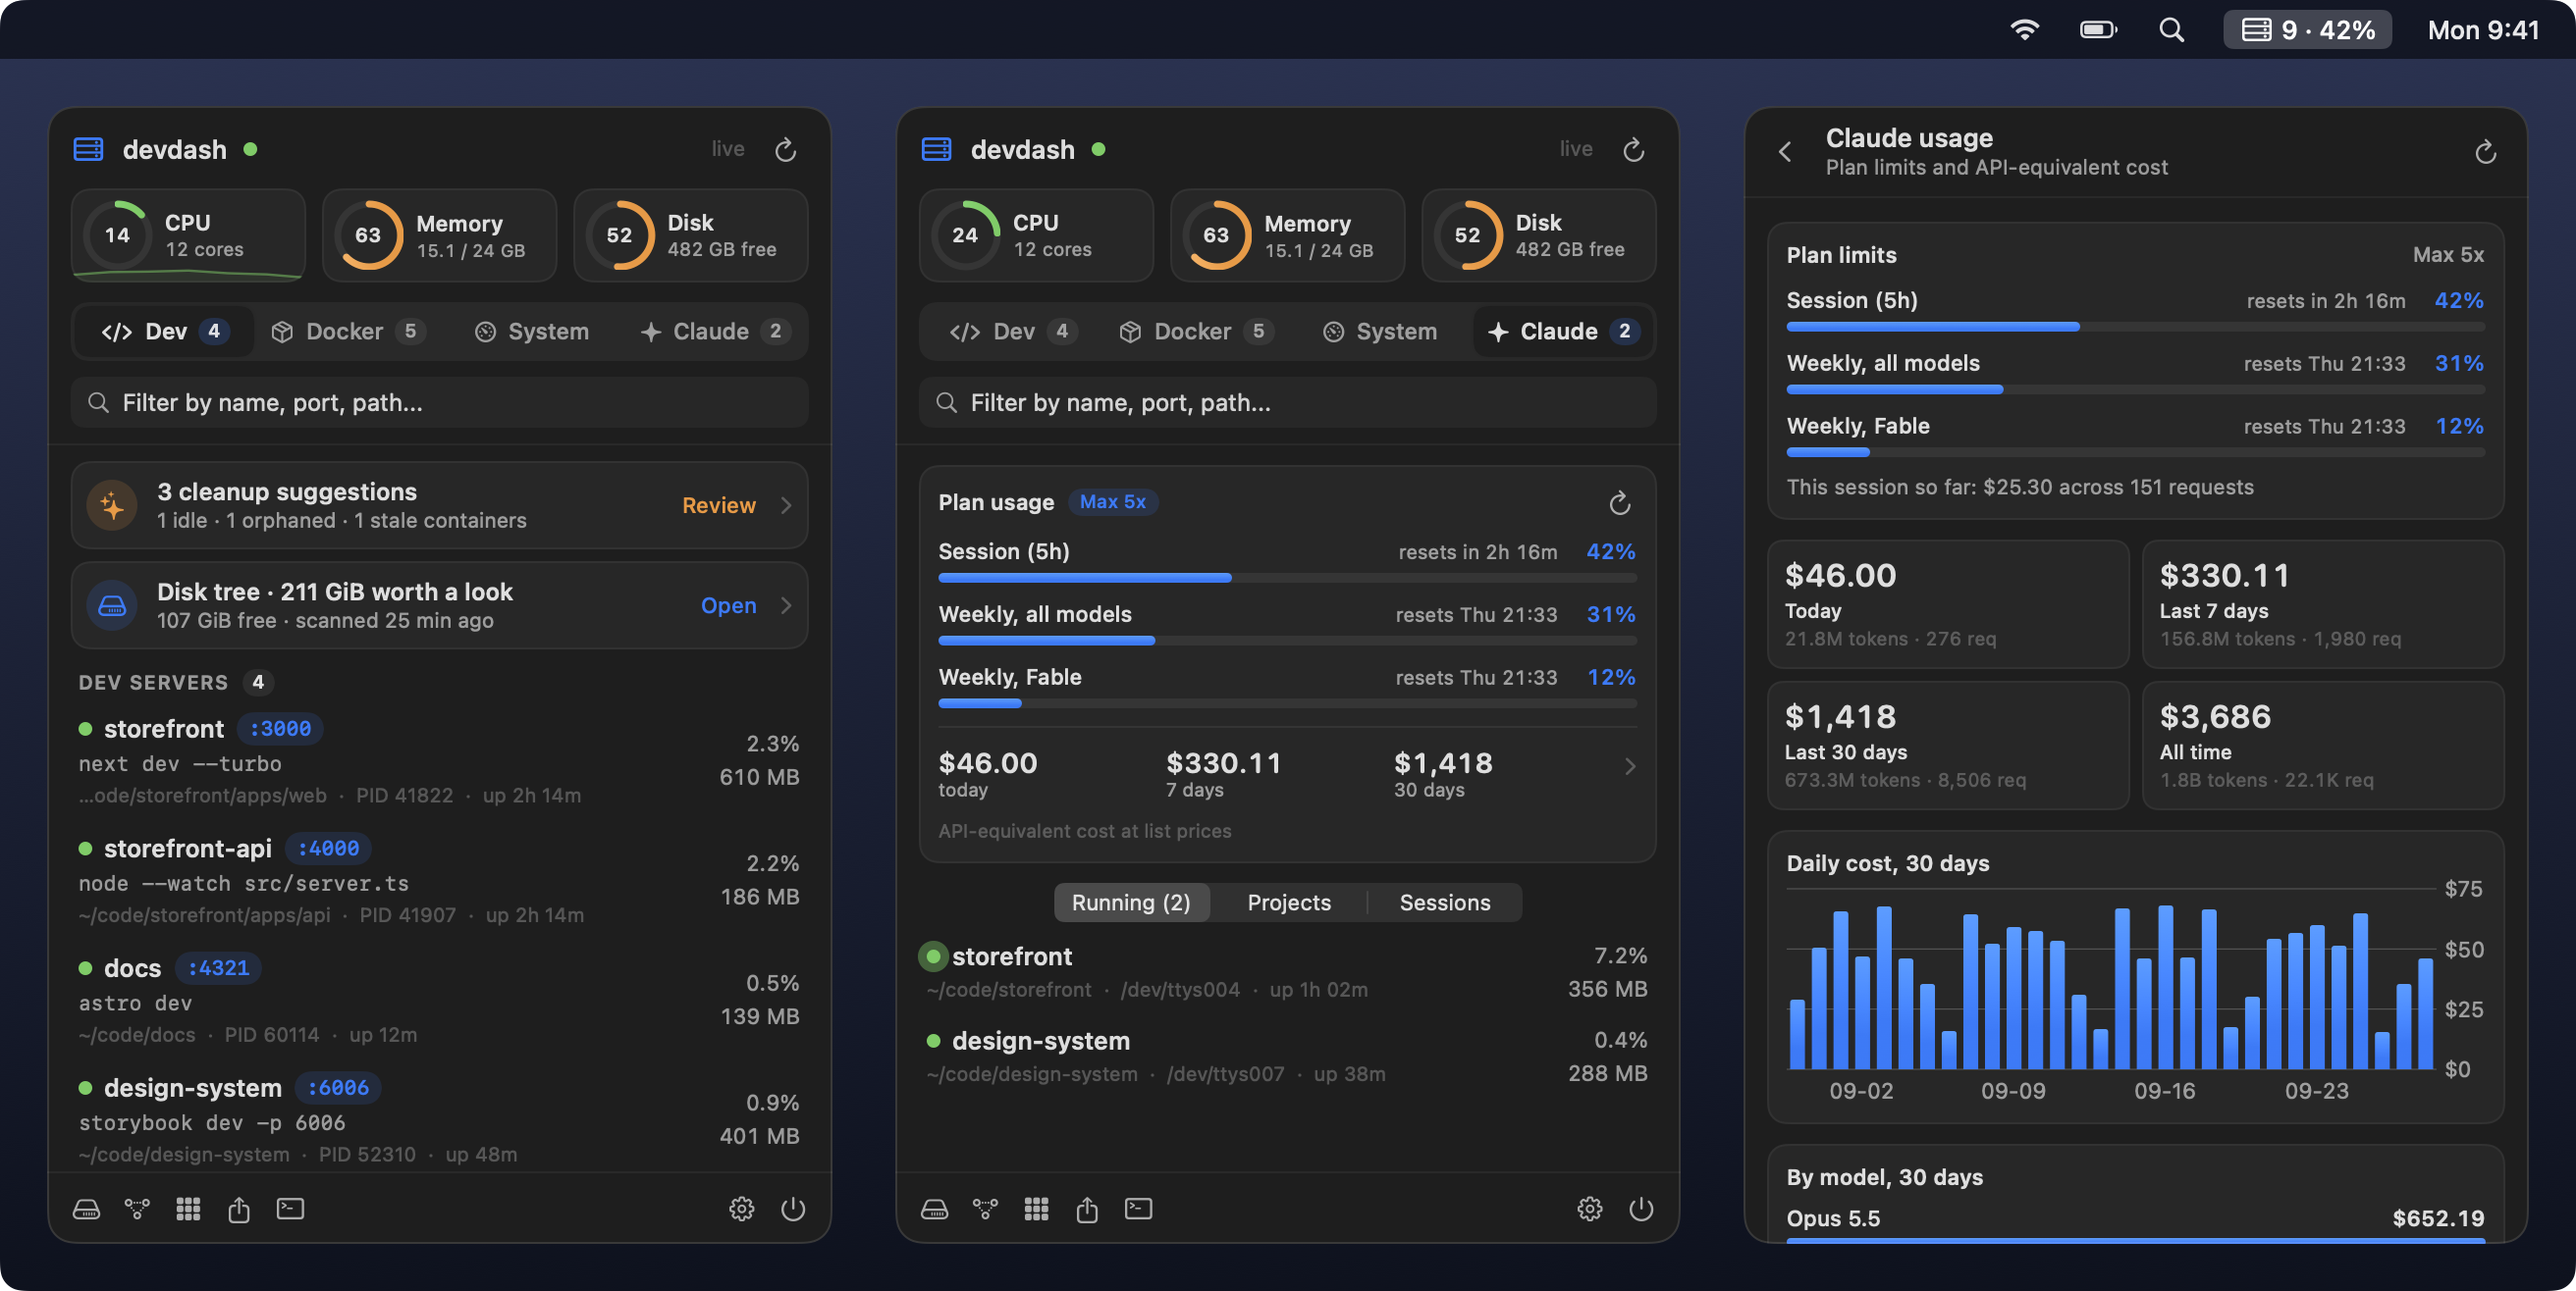
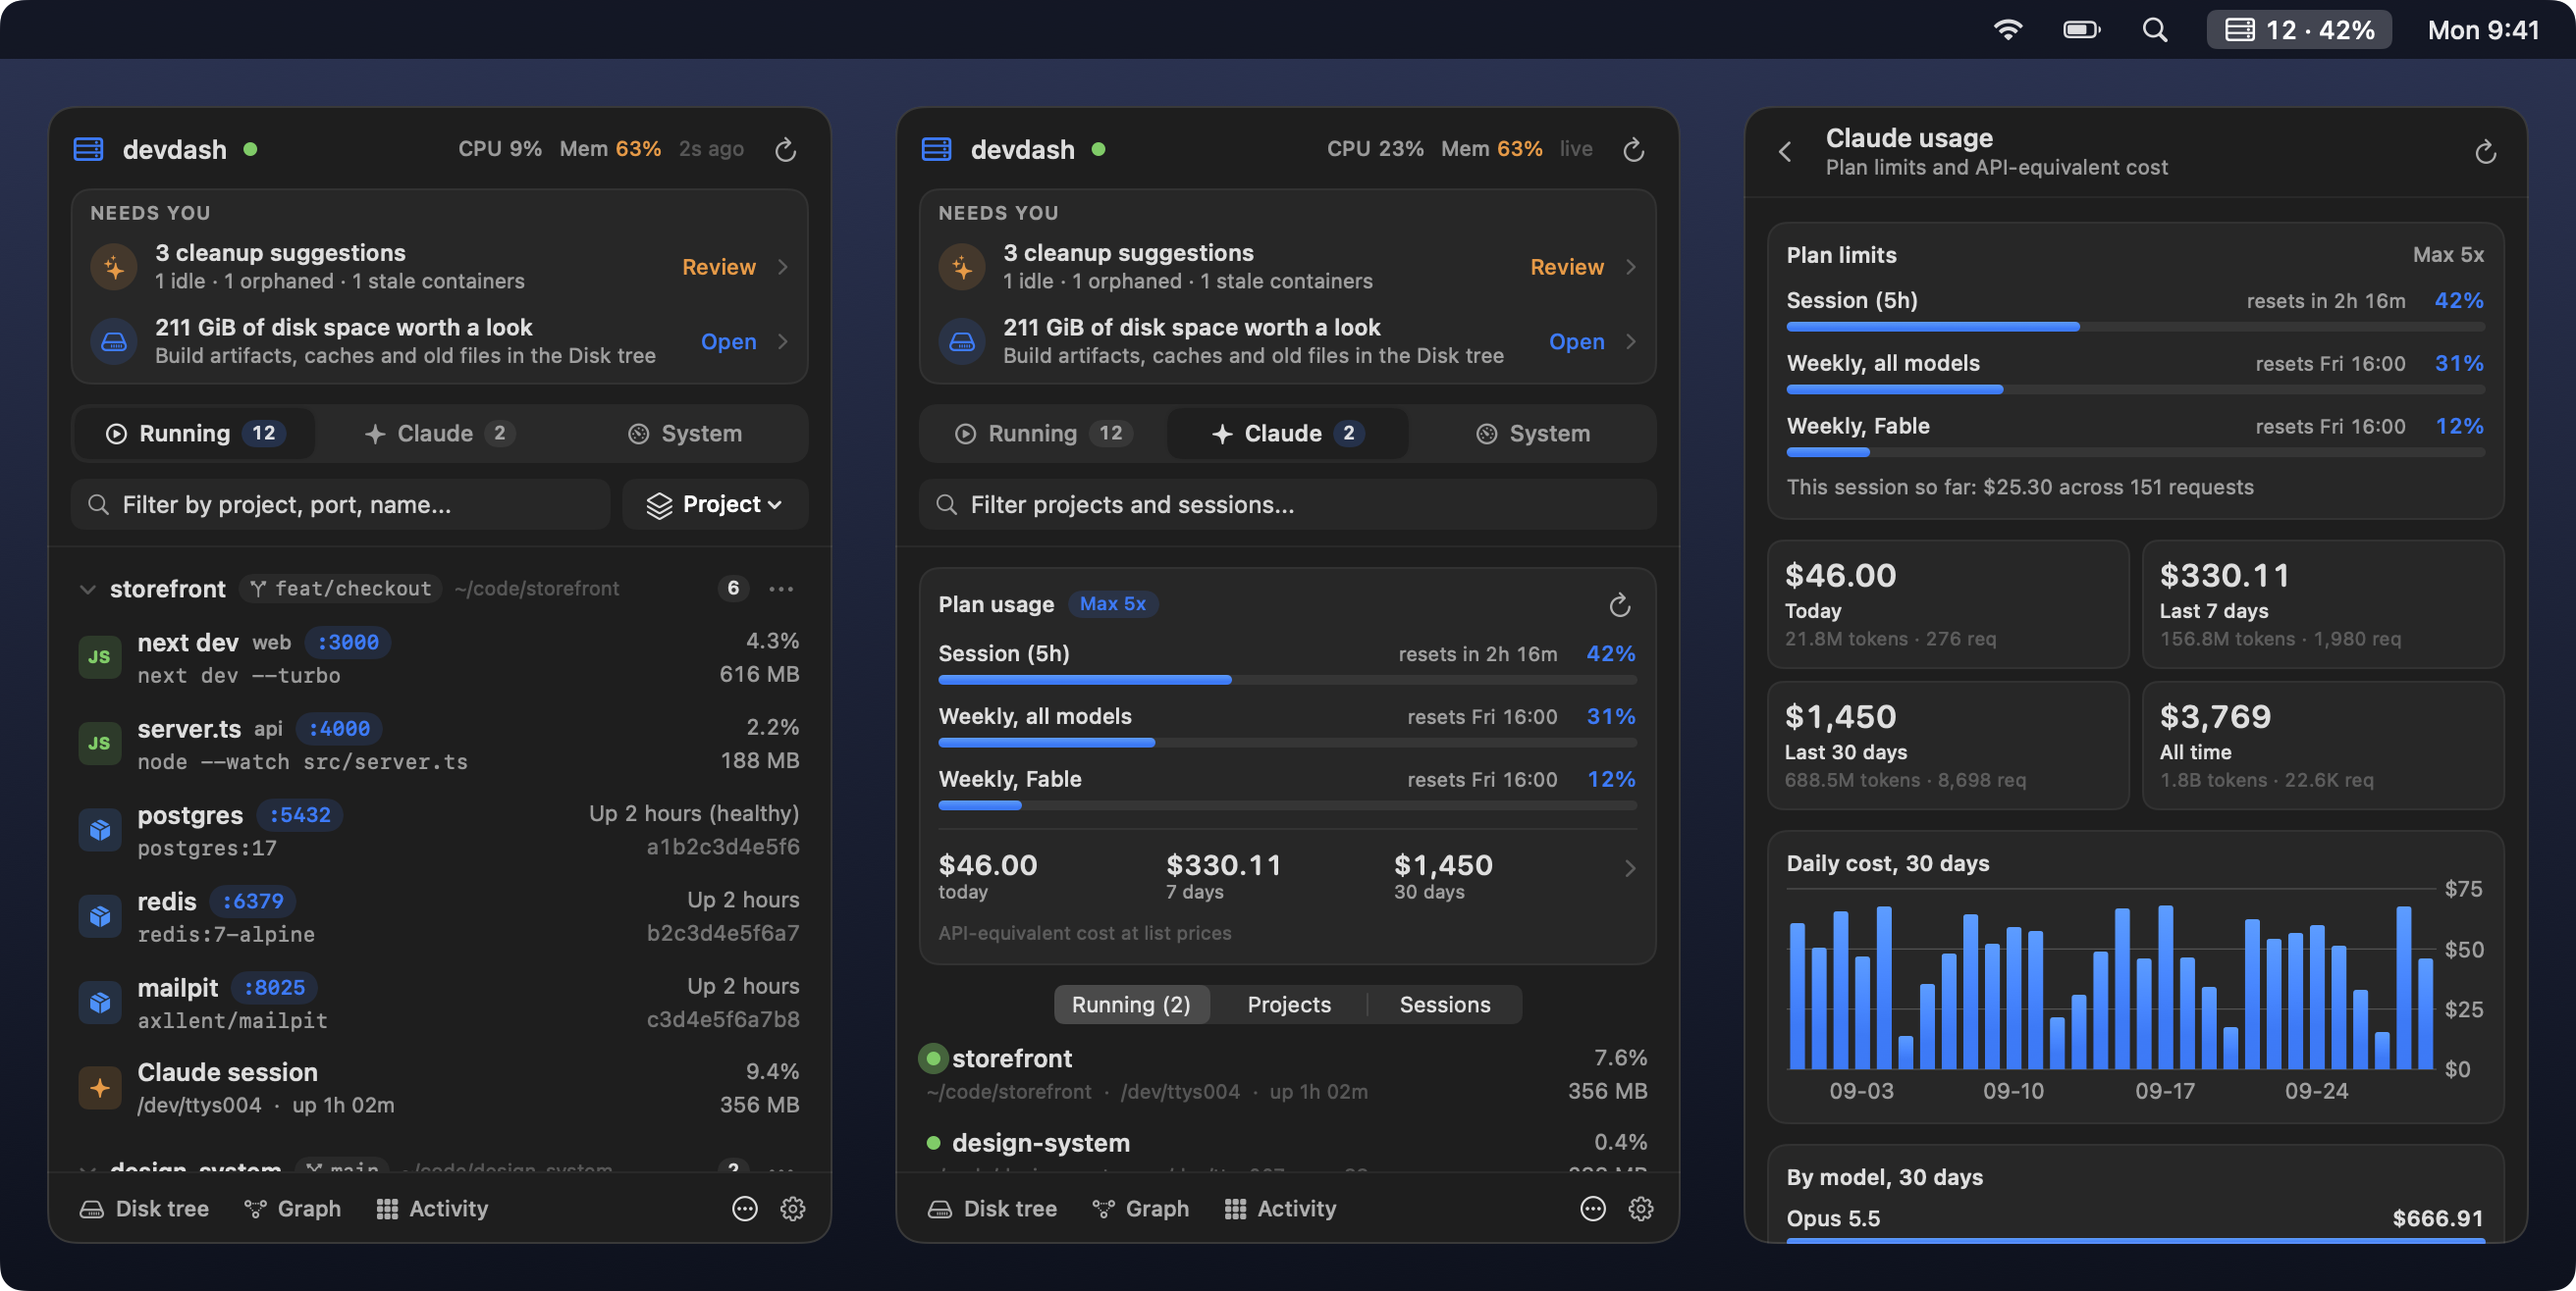
Document the redesigned popover and regenerate its screenshots

diff --git a/README.md b/README.md
@@ -14,7 +14,7 @@ If you use Claude Code (or any AI coding agent) across several projects, backgro
 
 devdash shows all of it on one screen:
 
-- **Dev servers**: every Node process with the ports it holds, its memory and CPU, and the project it belongs to (read from `package.json`).
+- **Dev servers**: every process listening on a port, in any language (Node, Bun, Deno, Python, Ruby, Go, Rust and more), with its memory, CPU and the project it belongs to. Local databases such as Homebrew Postgres show up as services.
 - **Docker**: containers grouped by Compose stack, with status, health and ports.
 - **Cleanup**: flags idle, orphaned and zombie processes and long-running containers, and lets you remove them in one click.
 - **Disk tree**: a treemap of your home folder that shows what takes up space and suggests what you can safely reclaim.
@@ -63,9 +63,9 @@ open ~/Applications/DevDash.app
 
 The menu bar shows how many dev servers and containers are running, plus your current Claude session usage (for example `9 · 42%`). The icon switches to a flame when CPU or memory goes over your configured threshold. Click it to open the dashboard.
 
-| Dev servers | Docker | System |
+| Running, by project | Project overview | System |
 |---|---|---|
-| ![Dev](screenshots/app/dev.png) | ![Docker](screenshots/app/docker.png) | ![System](screenshots/app/system.png) |
+| ![Running](screenshots/app/running.png) | ![Project overview](screenshots/app/running-collapsed.png) | ![System](screenshots/app/system.png) |
 | **Claude** | **Claude usage** | **Cleanup** |
 | ![Claude](screenshots/app/claude.png) | ![Usage](screenshots/app/usage.png) | ![Cleanup](screenshots/app/cleanup.png) |
 | **Claude project** | **Process details** | **Dependency graph** |
@@ -73,15 +73,18 @@ The menu bar shows how many dev servers and containers are running, plus your cu
 
 What you can do:
 
-- **Dev**: click a port chip to open `localhost:<port>`. Hover a row to reveal it in Finder, open it in your editor, or kill it (click twice to confirm). Click a row for process details: command, children, network connections, open files and environment.
-- **Docker**: containers are grouped by Compose project, and "Stop all" stops a whole stack. Click a container to stream its logs in a separate window, with filtering, follow mode and copy.
-- **System**: memory, swap, disk and network usage, plus the top processes sorted by memory or CPU.
+- **Needs you**: one list at the top for anything that wants your attention: cleanup suggestions, low disk space, disk space worth a look, and plan limits over 80%. Dismiss an item and it stays hidden until it changes. The list disappears when there is nothing to show.
+- **Running**: dev servers, Docker containers and Claude sessions, grouped by project (the git repository they run in). Each project header shows the branch and has a menu to open the project in your editor, Finder or Terminal, start a Claude session there, or stop everything in it. Services, servers outside any project and Node processes without a port are grouped at the bottom. Choose **Type** next to the filter to group by dev servers, Compose stacks, Claude sessions, services and background processes instead.
+  - Click a port chip to open `localhost:<port>`. Hover a row to open it in your editor or kill it (click twice to confirm). Right-click any row for all its actions.
+  - Click a server for process details: command, children, network connections, open files and environment. Click a container to stream its logs in a separate window, with filtering, follow mode and copy.
+- **System**: CPU, memory, disk, swap and network, the Disk tree summary, and the top processes sorted by memory or CPU. The header shows CPU and memory on every tab; click it to open this tab.
 - **Claude**:
   - plan limits and API-equivalent cost;
   - running sessions, projects and recent sessions;
   - project pages with one-click launch: new session, continue, plan mode, resume picker, skip permissions, or a plain terminal in that folder.
-- **Cleanup**: shown as a banner when devdash finds idle, orphaned or zombie processes, or containers running longer than your stale threshold. Pick which ones to remove and clean them up together.
-- **Footer**: dependency graph, activity heatmap, JSON export, open the terminal UI, settings.
+- **Cleanup**: listed under Needs you when devdash finds idle, orphaned or zombie processes, or containers running longer than your stale threshold. Pick which ones to remove and clean them up together.
+- **Footer**: Disk tree, dependency graph and activity heatmap. The `...` menu has JSON export, the terminal UI, What's new, Check for updates and Quit.
+- **Keyboard**: Cmd+1 to Cmd+3 switch tabs, Cmd+F filters, Esc clears the filter.
 - **Notifications**: a macOS notification when a dev server starts or exits, a container stops, or a watched port comes up.
 - **Settings**: launch at login, editor (VS Code or Cursor), whether the menu bar shows the count and usage percentage, notifications, and a custom `devdash` path.
 
@@ -89,7 +92,7 @@ What you can do:
 
 ![Disk tree](screenshots/app/disk-tree.png)
 
-Open it from the Disk tree row on the Dev and Docker tabs, the Disk card on the System tab, or the drive icon in the popover footer.
+Open it from the Disk tree button in the popover footer, the Disk card on the System tab, or the Needs you row when devdash finds space worth a look.
 
 - **Treemap**:
   - Every folder is a box sized by disk usage, nested up to the chosen depth.
